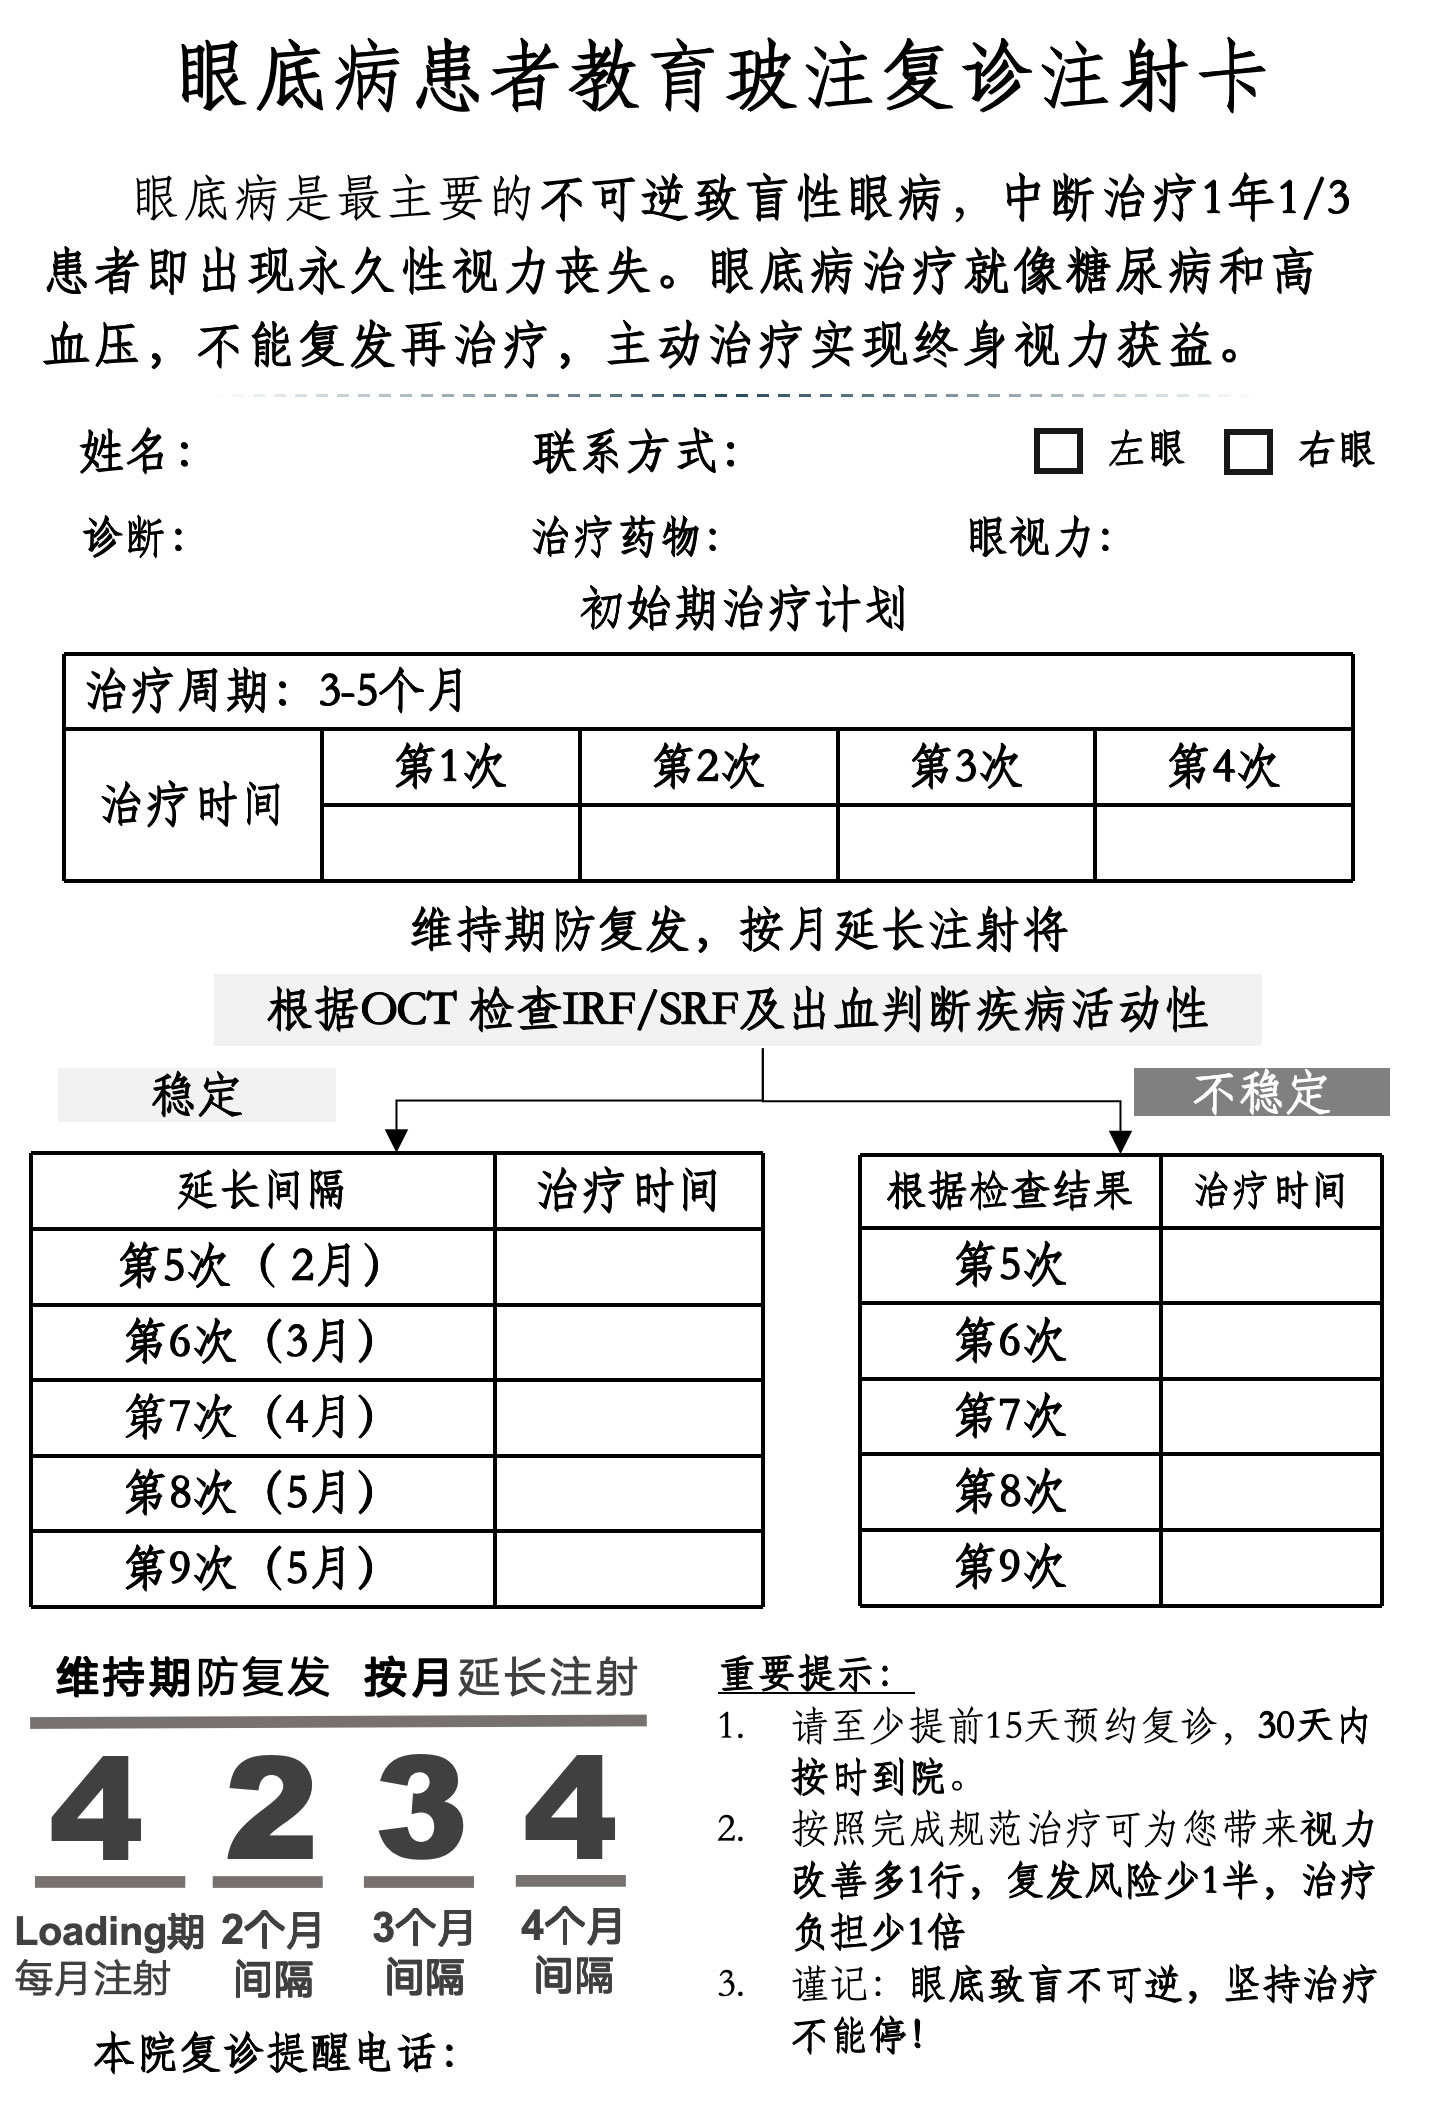
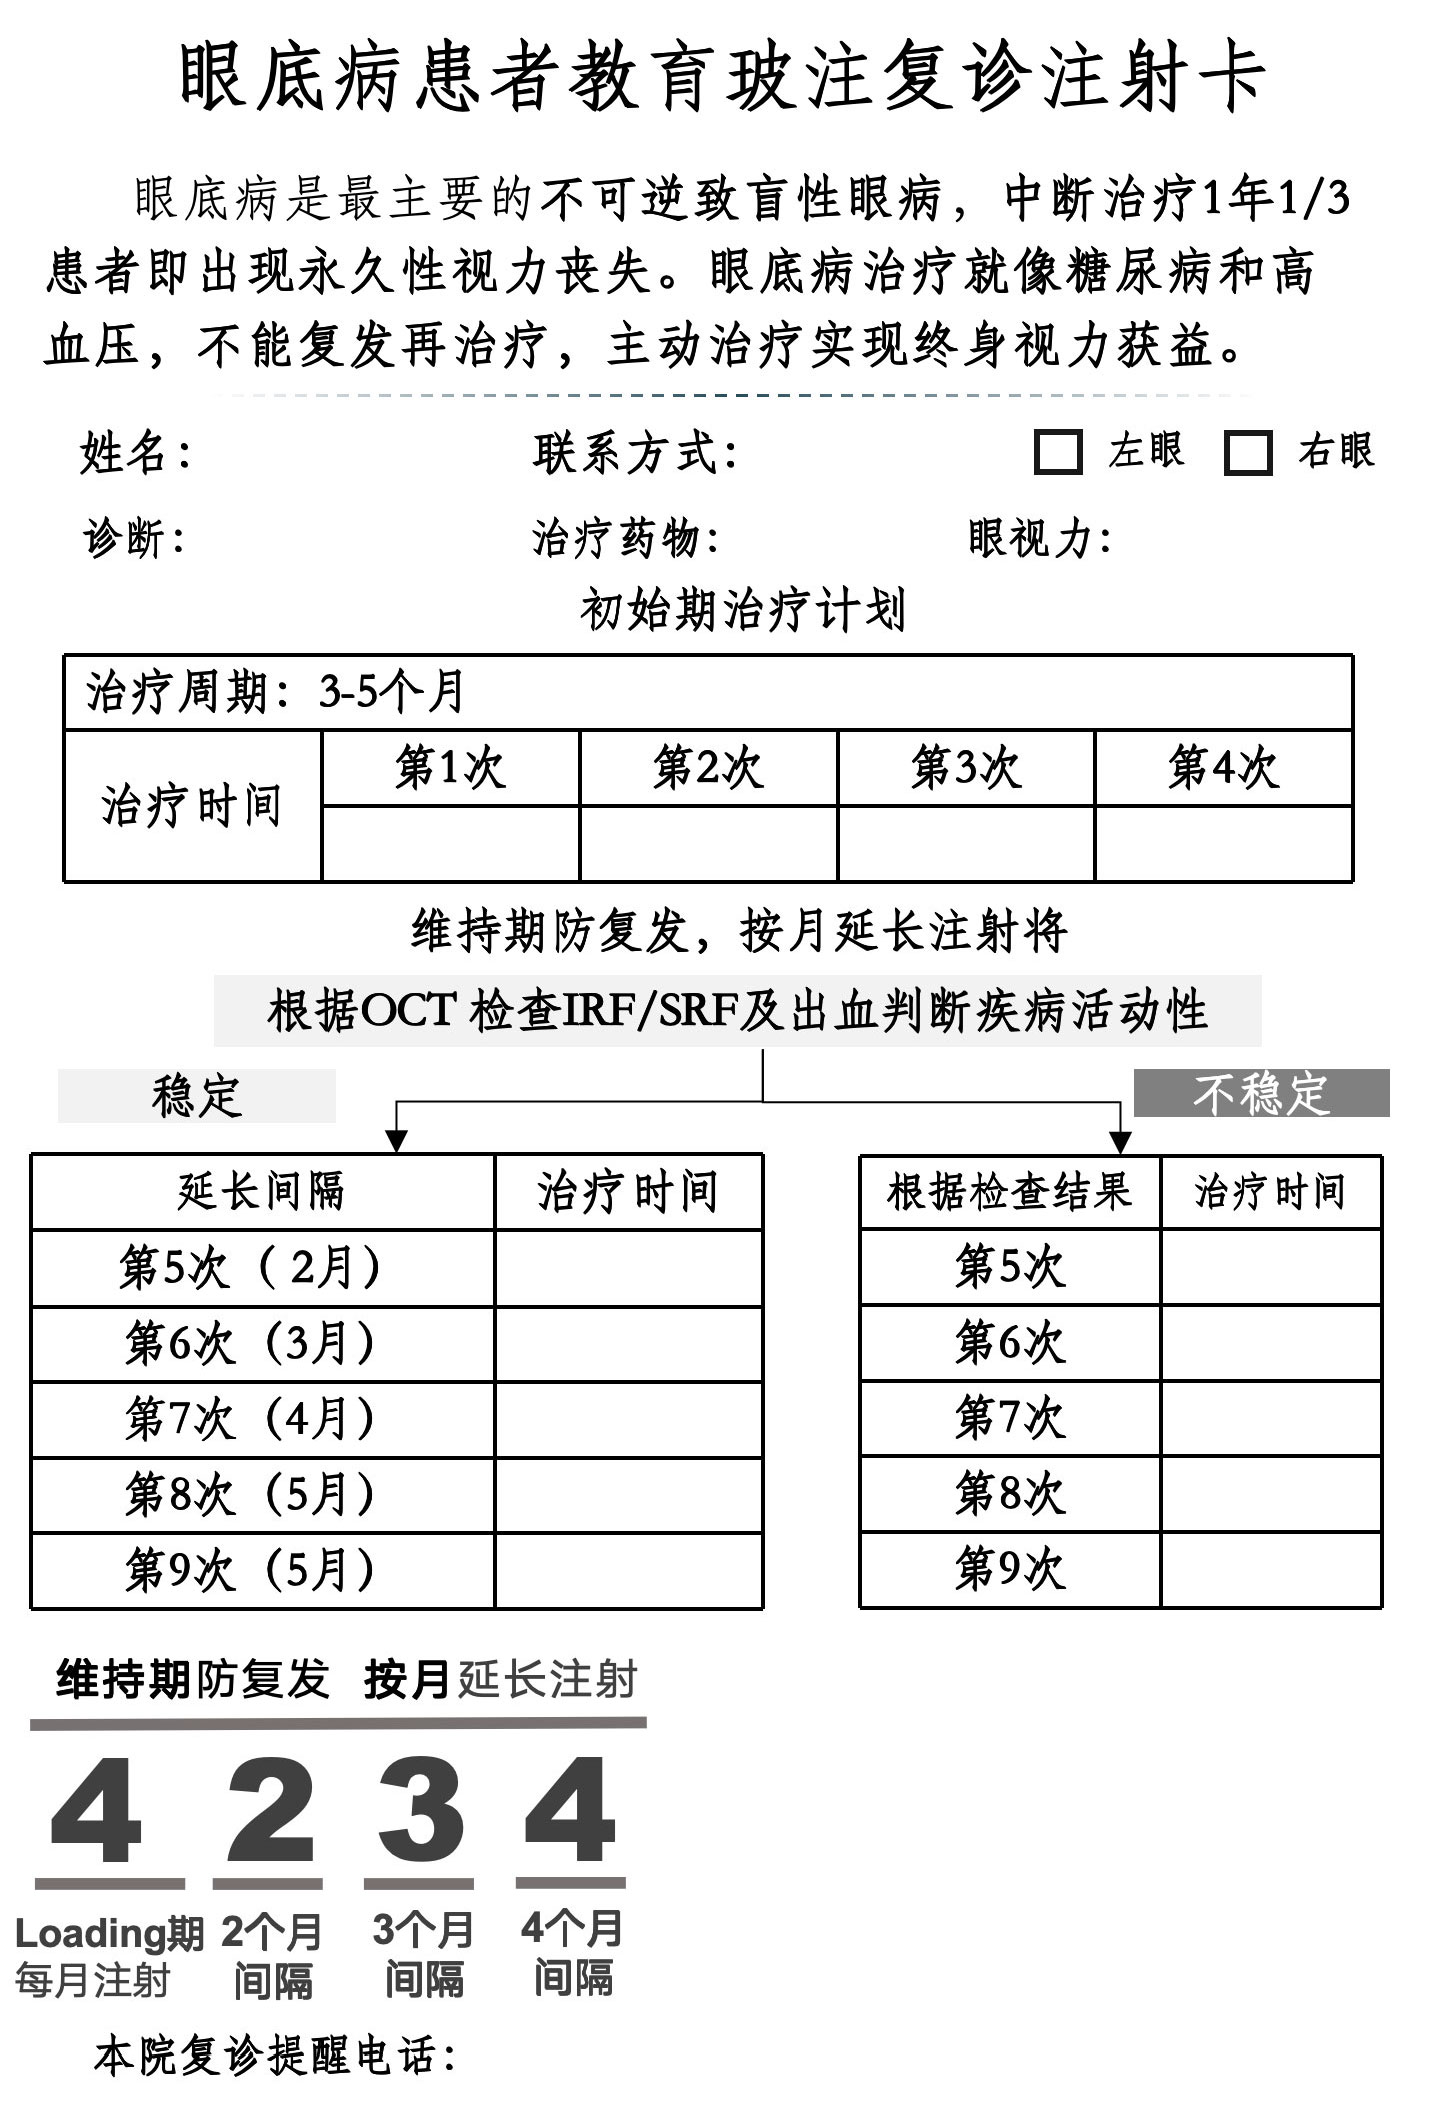
his_sync: 改用pyodbc连接，添加CYPB/CYRQ过滤条件

diff --git a/frontend/src/components/TreatmentProgress.tsx b/frontend/src/components/TreatmentProgress.tsx
@@ -76,7 +76,7 @@ const TreatmentProgress: React.FC<TreatmentProgressProps> = ({ patient }) => {
             width: 60,
         },
         {
-            title: '实际日期',
+            title: '玻注日期',
             dataIndex: 'appointment_date',
             key: 'appointment_date',
         },

diff --git a/his_sync/core/db_mssql.py b/his_sync/core/db_mssql.py
@@ -1,4 +1,4 @@
-import pymssql
+import pyodbc
 import yaml
 import time
 from core.logger import logger
@@ -6,7 +6,7 @@ from core.logger import logger
 
 def get_conn(max_retries=3, retry_delay=5):
     """
-    获取 SQL Server 连接，支持重试机制
+    获取 SQL Server 连接，支持重试机制 (使用 pyodbc)
     """
     with open("config/config.yaml") as f:
         cfg = yaml.safe_load(f)
@@ -16,16 +16,29 @@ def get_conn(max_retries=3, retry_delay=5):
     for attempt in range(max_retries):
         try:
             logger.debug(f"尝试连接 SQL Server (第 {attempt + 1} 次)")
-            conn = pymssql.connect(
-                host=str(his["host"]),
-                port=str(his["port"]),
-                user=str(his["user"]),
-                password=str(his["password"]),
-                database=str(his["db"]),
-                charset='cp936',
-                timeout=30,  # 连接超时
-                login_timeout=30  # 登录超时
-            )
+            
+            # 获取可用的 SQL Server 驱动
+            drivers = pyodbc.drivers()
+            sql_drivers = [d for d in drivers if 'SQL Server' in d]
+            
+            if not sql_drivers:
+                raise Exception("未找到 SQL Server ODBC 驱动")
+            
+            driver = sql_drivers[0]  # 使用第一个可用驱动
+            logger.debug(f"使用 ODBC 驱动: {driver}")
+            
+            # 构建连接字符串
+            conn_str = f"""
+                DRIVER={{{driver}}};
+                SERVER={his['host']},{his['port']};
+                DATABASE={his['db']};
+                UID={his['user']};
+                PWD={his['password']};
+                Timeout=30;
+                LoginTimeout=30;
+            """
+            
+            conn = pyodbc.connect(conn_str)
             logger.debug("SQL Server 连接成功")
             return conn
             

diff --git a/his_sync/adapter/vegf_adapter.py b/his_sync/adapter/vegf_adapter.py
@@ -8,8 +8,36 @@ def convert_patient(row):
     BRXM -> name (修正字段映射)
     """
     try:
-        outpatient_number = str(row["ZYH"]) if row.get("ZYH") is not None else None
-        name = str(row["BRXM"]) if row.get("BRXM") is not None else ""
+        # 调试：打印所有可用字段
+        if hasattr(row, 'cursor_description'):
+            available_fields = [desc[0] for desc in row.cursor_description]
+            logger.debug(f"可用字段: {available_fields}")
+        
+        # 尝试不同的字段名（大小写）
+        outpatient_number = None
+        name = ""
+        
+        # 查找门诊号字段
+        for field_name in ['ZYH', 'zyh', 'Zyh']:
+            try:
+                if hasattr(row, field_name) or field_name in row:
+                    value = getattr(row, field_name, None) or row[field_name]
+                    if value is not None:
+                        outpatient_number = str(value)
+                        break
+            except:
+                continue
+        
+        # 查找姓名字段
+        for field_name in ['BRXM', 'brxm', 'Brxm']:
+            try:
+                if hasattr(row, field_name) or field_name in row:
+                    value = getattr(row, field_name, None) or row[field_name]
+                    if value is not None:
+                        name = str(value)
+                        break
+            except:
+                continue
         
         # 数据验证
         if not name.strip():
@@ -24,7 +52,7 @@ def convert_patient(row):
         return result
         
     except Exception as e:
-        logger.error(f"转换患者数据失败: {e}, 原始数据: {dict(row)}")
+        logger.error(f"转换患者数据失败: {e}")
         # 返回默认值以避免同步中断
         return {
             "outpatient_number": None,

diff --git a/his_sync/sync/patient_sync.py b/his_sync/sync/patient_sync.py
@@ -55,7 +55,7 @@ def get_db_connections():
         # 建立连接
         his_conn_obj = his_conn()
         local_conn_obj = local_conn()
-        his_cursor = his_conn_obj.cursor(as_dict=True)
+        his_cursor = his_conn_obj.cursor()
         local_cursor = local_conn_obj.cursor()
         
         yield his_cursor, local_cursor, local_conn_obj
